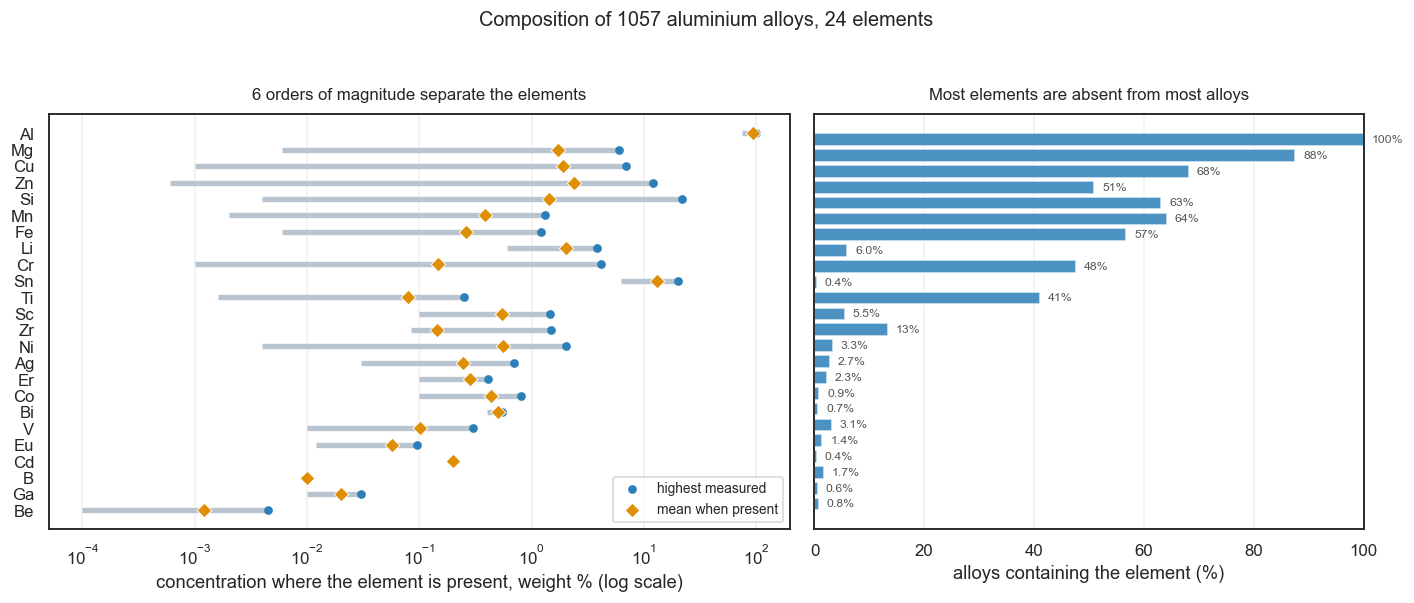
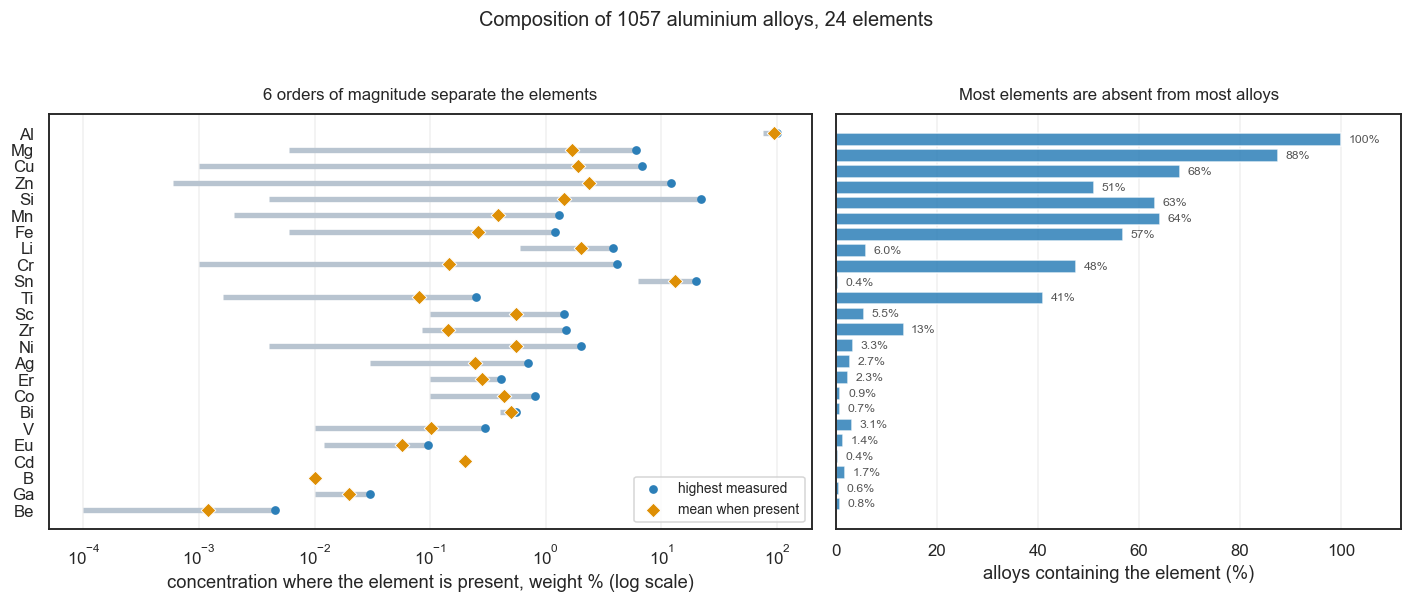
docs: name the column the dataset actually has, and keep every label inside the axes
Two findings from Copilot on this PR.

The tutorial told the reader to color by `Name#category`. The column is `Name`:
it holds text, and the marker is only needed on a column whose numbers are
labels, so it was never written on this one. Naming a column that does not exist
is the worst kind of error in a tutorial, because the reader cannot tell whether
they have misread the instruction or the file. Every backticked column reference
in the file was checked against the CSV header; this was the only wrong one.

The other finding was that the composition plot's 100% label, placed at 101.5 on
an axis ending at 100, would not render. It did render — matplotlib does not clip
text by default, and the saved figure shows it. But it was the only label sitting
outside the axes, up against the right spine. The axis now runs to 112 with ticks
still at 0..100, so every label sits inside and the Al bar no longer touches the
frame.

Not changed: this tutorial is deliberately absent from scripts/sync-docs.sh,
because al_alloy is not one of the datasets bundled with GoPCA Desktop.

diff --git a/testdata/al_alloy/make_composition_plot.py b/testdata/al_alloy/make_composition_plot.py
@@ -91,7 +91,11 @@ ax_present.barh(list(y), stats['present_pct'], color='#2c7fb8', alpha=0.85)
 ax_present.set_yticks(list(y))
 ax_present.set_yticklabels([])
 ax_present.invert_yaxis()
-ax_present.set_xlim(0, 100)
+# Headroom past 100, so the label for an element present in every alloy -- Al --
+# sits inside the axes like every other one. Text is not clipped by default, so it
+# did render against the right spine; it simply looked like the odd one out.
+ax_present.set_xlim(0, 112)
+ax_present.set_xticks(range(0, 101, 20))
 ax_present.set_xlabel('alloys containing the element (%)')
 ax_present.set_title('Most elements are absent from most alloys',
                      fontsize=11, pad=10)

diff --git a/testdata/al_alloy/al_alloy_exploration.md b/testdata/al_alloy/al_alloy_exploration.md
@@ -311,7 +311,7 @@ them takes the first character of a text field. So there is no way to build a
 
 What you *can* do is verify the claim point by point:
 
-**Color by `Name#category`, then ignore the legend and hover instead.** The
+**Color by `Name`, then ignore the legend and hover instead.** The
 tooltip names the alloy for whichever point you are asking about, and that is
 what lets you check the claim: the most negative PC1 points are high-silicon
 casting alloys, the most positive are 1xxx purities.
